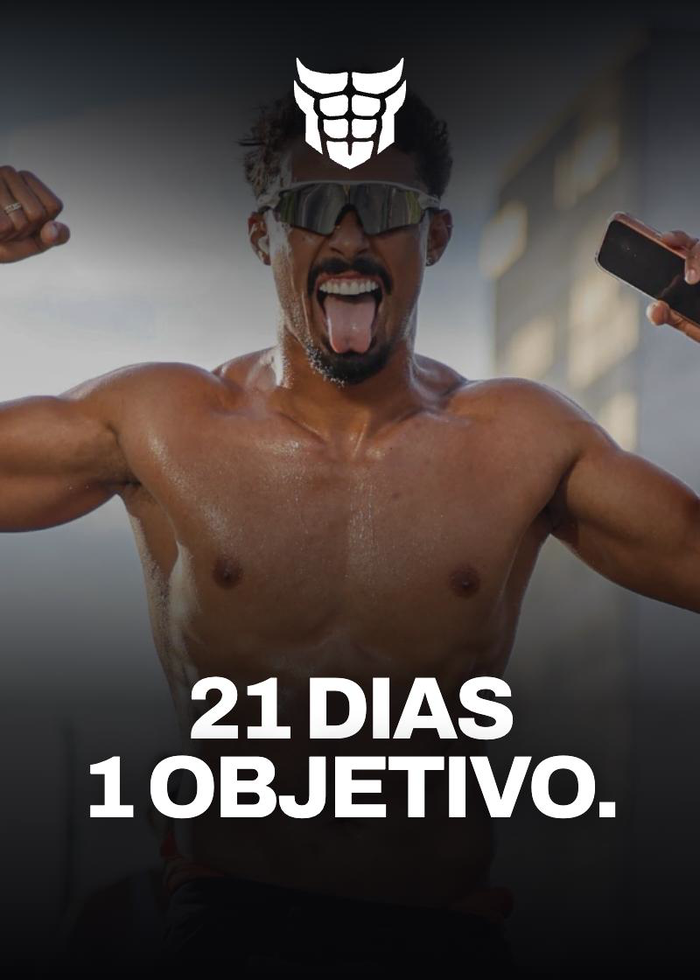
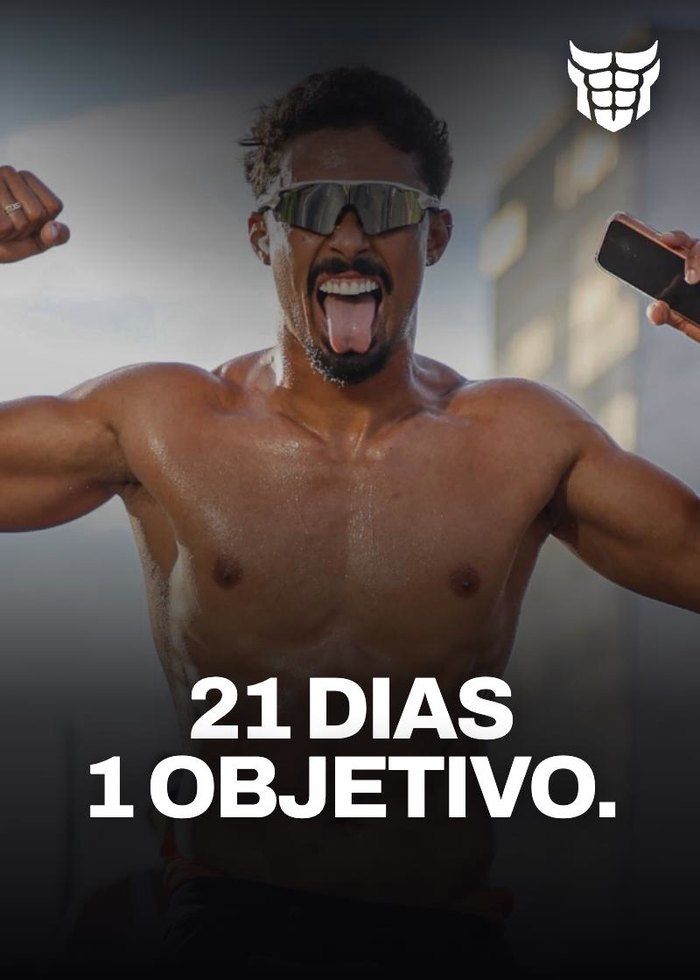
Move o emblema da capa 1 para o canto superior direito

Changed region(s): [[0.42, 0.0, 1.0, 0.2449], [0.0, 0.0, 0.42, 0.2449], [0.72, 0.2143, 0.75, 0.2449]]

diff --git a/_capas/inicio.html b/_capas/inicio.html
@@ -15,10 +15,11 @@ html,body{width:560px;height:784px;overflow:hidden;background:#07070a}
 .sombra{
   position:absolute;inset:0;
   background:
-    linear-gradient(180deg, rgba(7,7,10,.94) 0%, rgba(7,7,10,.72) 12%, rgba(7,7,10,.26) 28%, rgba(7,7,10,.22) 44%, rgba(7,7,10,.82) 72%, #07070a 100%),
+    linear-gradient(180deg, rgba(7,7,10,.82) 0%, rgba(7,7,10,.40) 15%, rgba(7,7,10,.18) 30%, rgba(7,7,10,.22) 44%, rgba(7,7,10,.82) 72%, #07070a 100%),
     radial-gradient(70% 46% at 50% 8%, rgba(7,7,10,.7), rgba(7,7,10,0) 70%);
 }
-.emb{position:absolute;z-index:3;top:46px;left:50%;transform:translateX(-50%);width:90px;height:auto}
+.emb{position:absolute;z-index:3;top:32px;right:32px;width:74px;height:auto;
+  filter:drop-shadow(0 2px 12px rgba(7,7,10,.9))}
 .txt{position:absolute;z-index:3;left:0;right:0;bottom:122px;text-align:center;padding:0 40px}
 .txt b{
   display:block;font-family:Archivo,sans-serif;font-weight:800;
